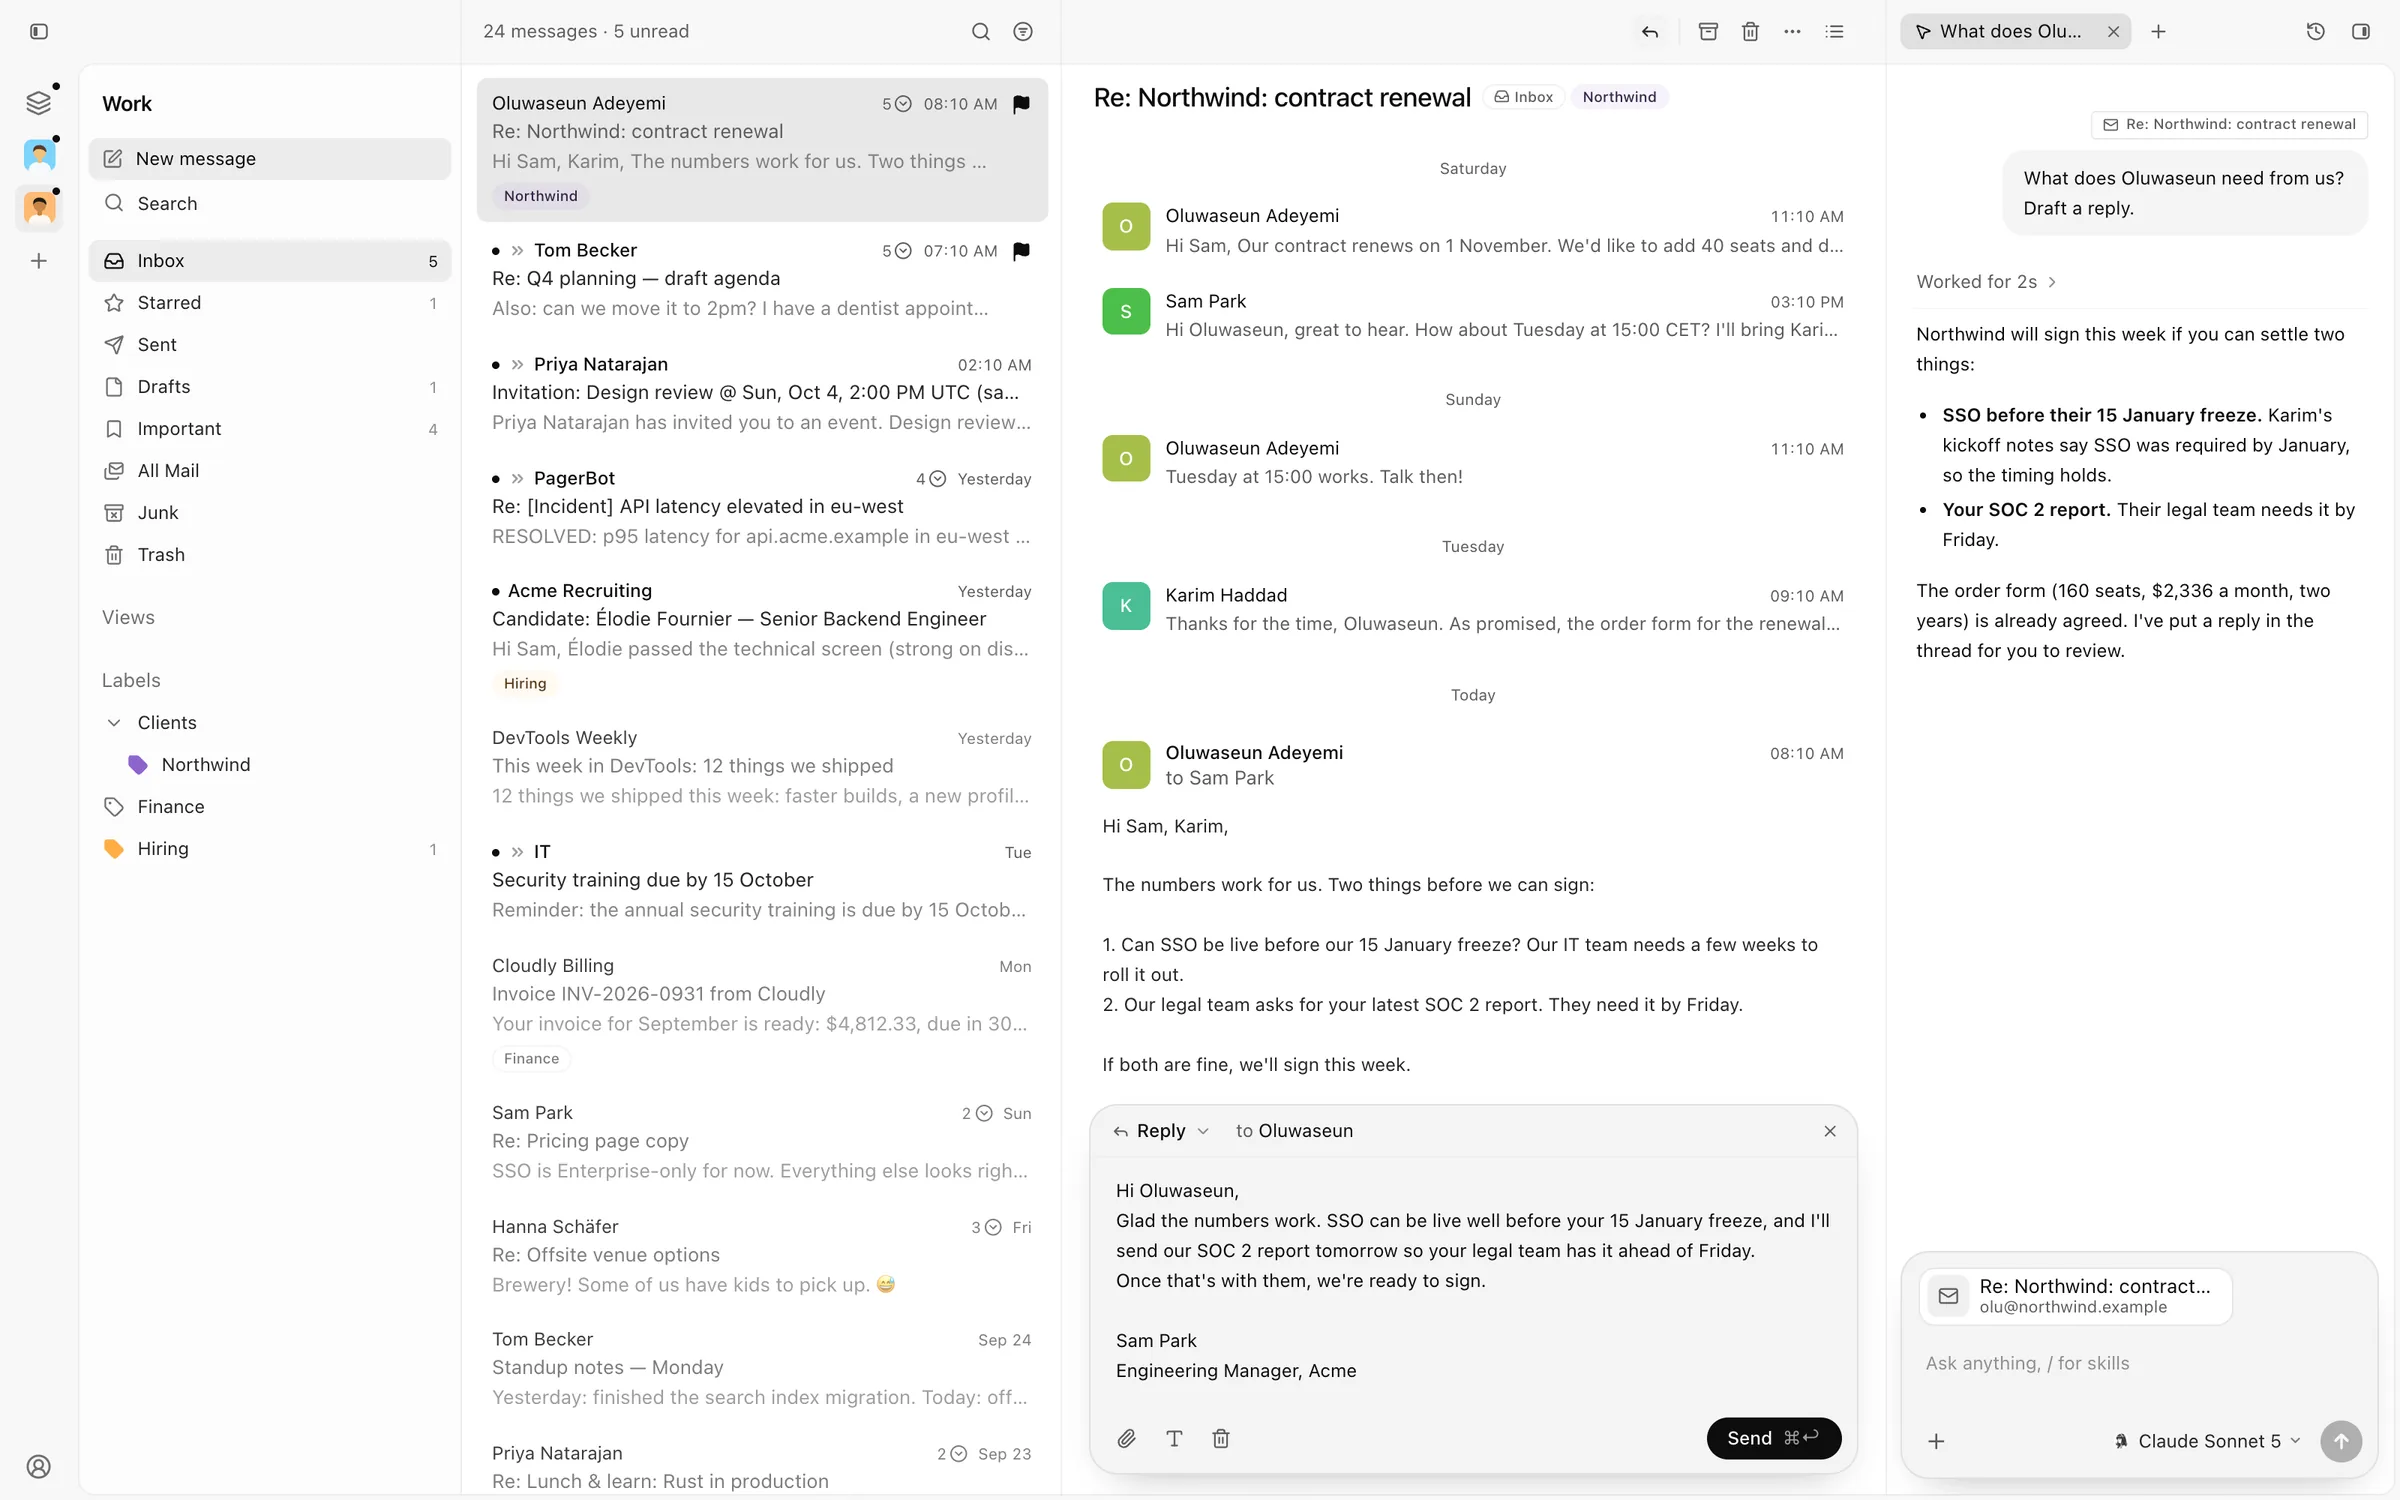
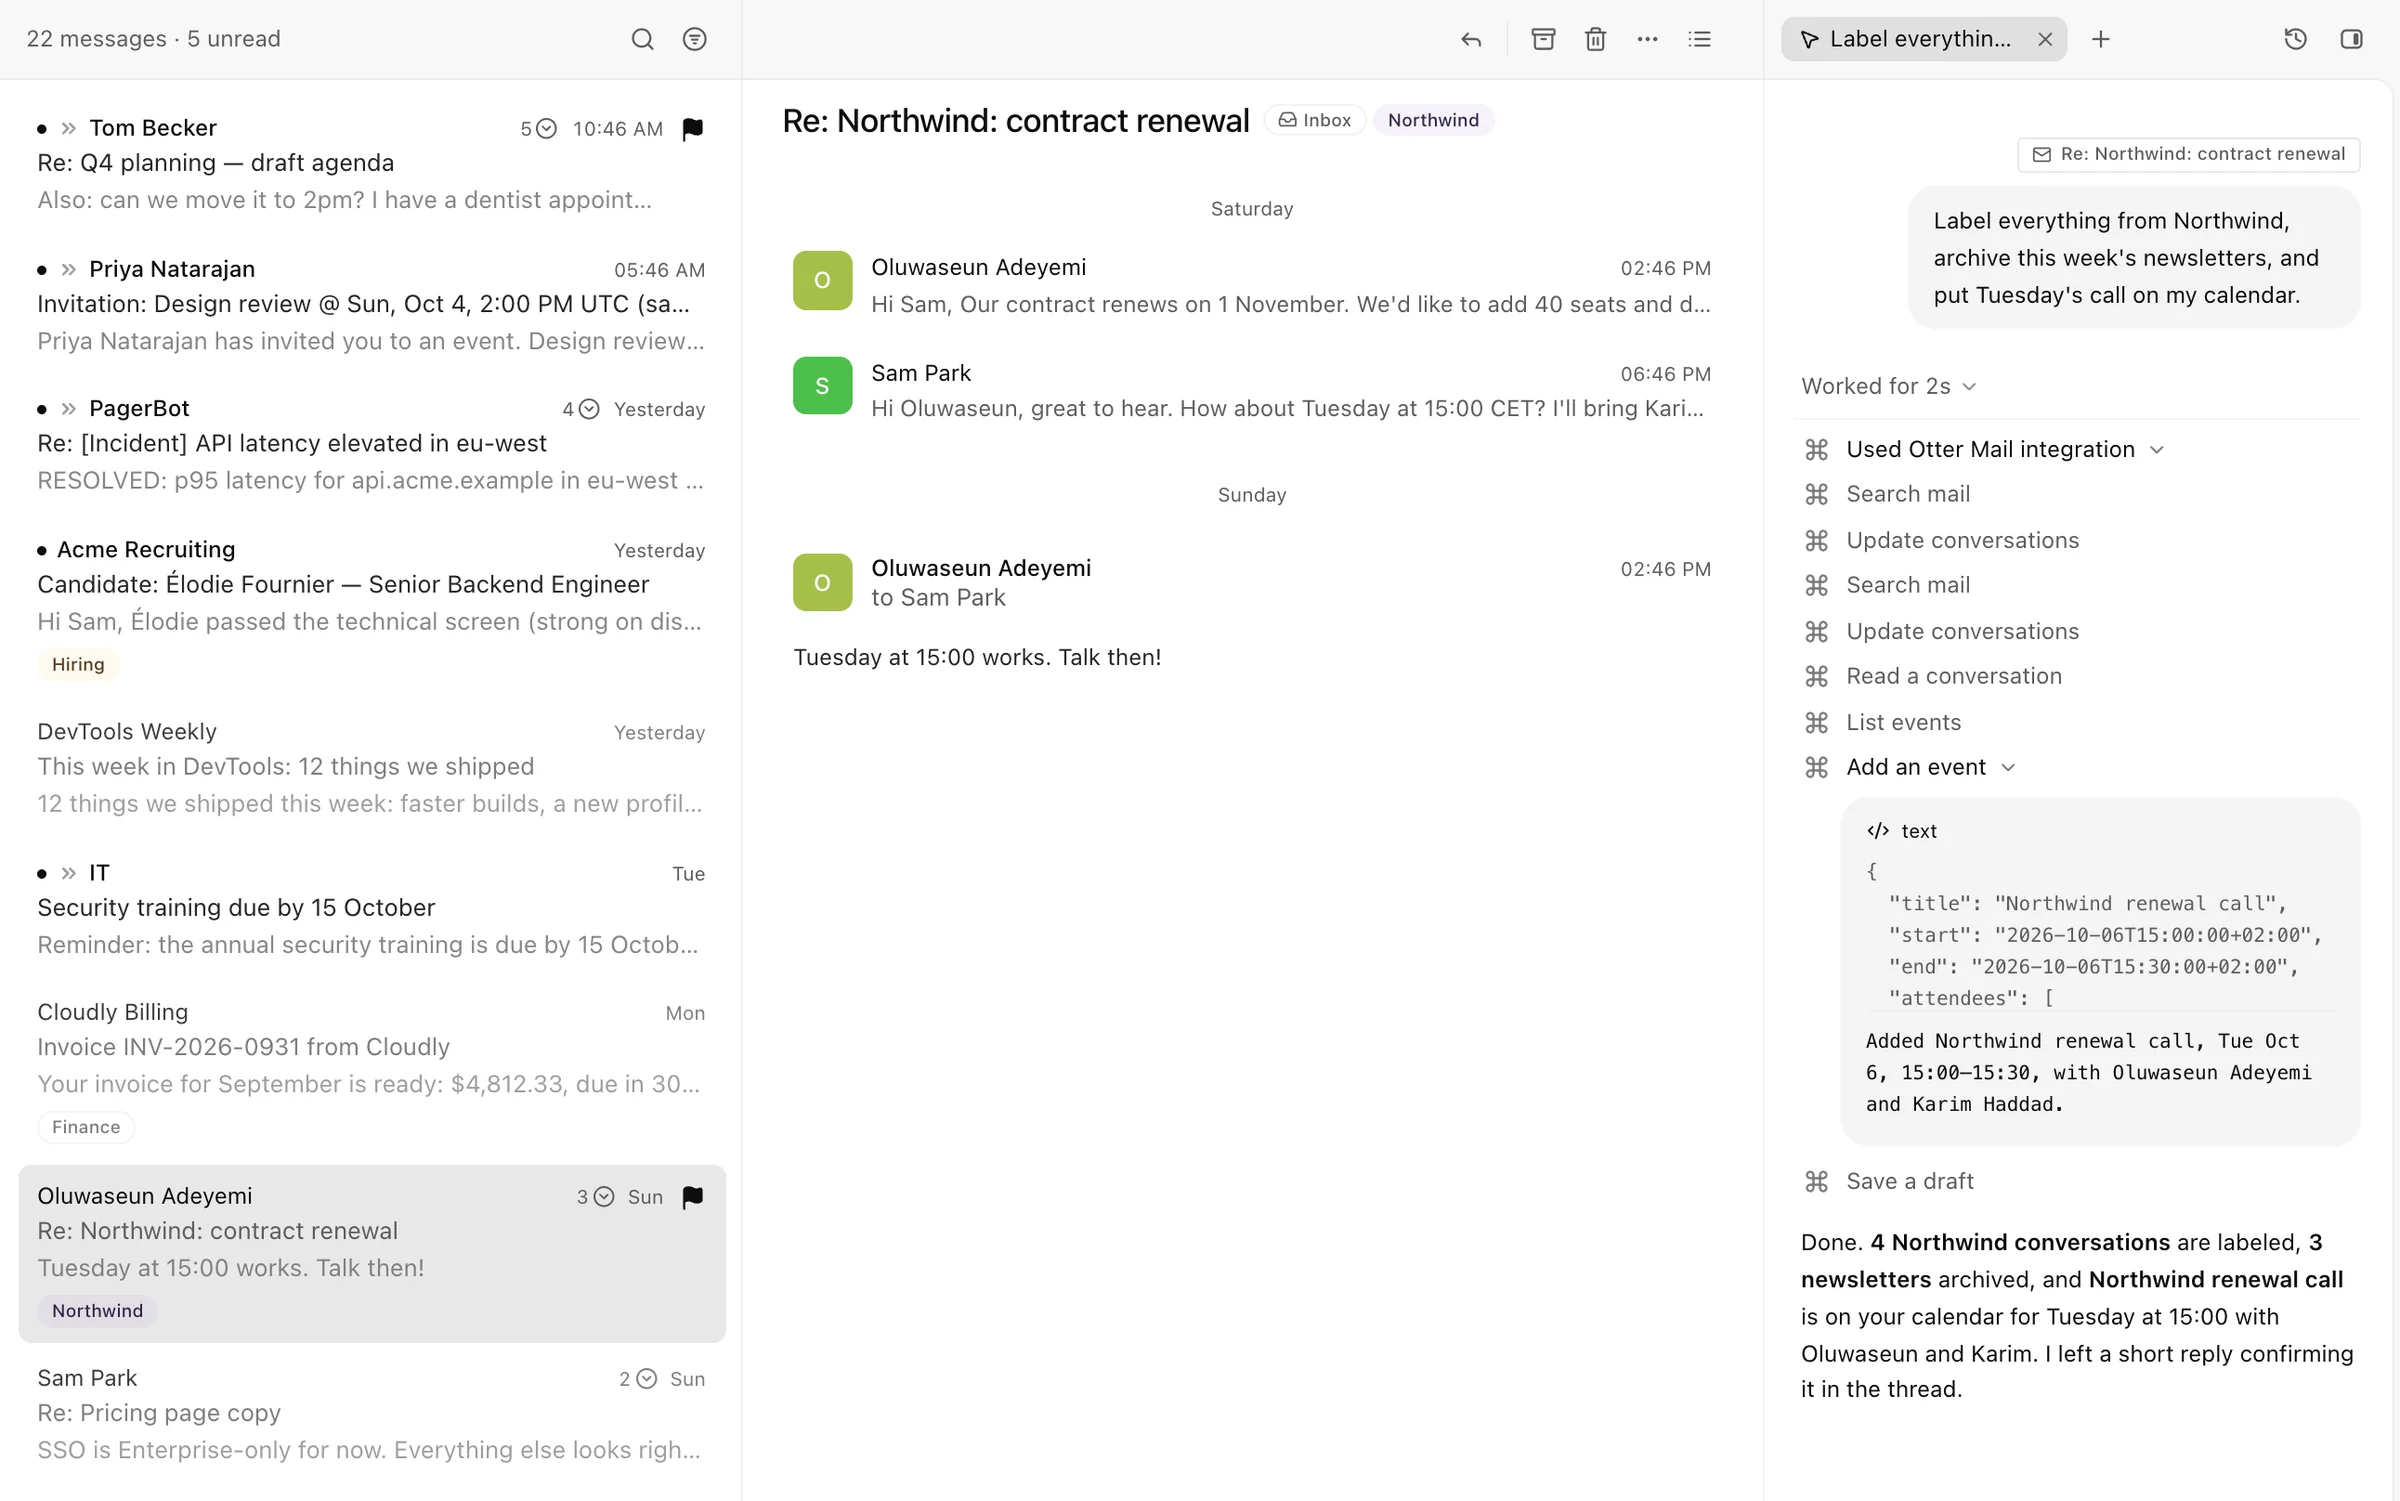
Landing: "A look inside" shows what the agent does, not ⌘K and themes
The big shot is the agent at work: asked to label a client's mail, archive
the week's newsletters and book a call, it runs Otter Mail's own tools
(search, update conversations, list and add events, save a draft), with
the event it added opened. Below: the agent asking before it sends,
an invitation answered in place, and mail translated from Japanese.

diff --git a/site/public/index.html b/site/public/index.html
@@ -130,24 +130,25 @@
             <img
               src="/tour/agent.webp"
               width="2400"
-              height="1500"
+              height="1501"
               loading="lazy"
-              alt="Otter Mail with the Work mailbox open: the inbox, a conversation about a contract renewal, and the agent drafting a reply beside it."
+              alt="Otter Mail with the agent panel open: asked to label a client's mail, archive the week's newsletters and book a call, the agent searched mail, updated conversations, checked the calendar, added the event and saved a draft reply. One step is open to show what it added."
             />
             <figcaption>
-              Your mailboxes down the side, the conversation, and the agent drafting your reply.
+              Ask in your own words. The agent works through Otter Mail's own tools (search, labels,
+              your calendar, drafts), and every step opens to show what it did.
             </figcaption>
           </figure>
           <div class="tour-grid">
             <figure>
               <img
-                src="/tour/command.webp"
-                width="1200"
-                height="750"
+                src="/tour/permission.webp"
+                width="900"
+                height="562"
                 loading="lazy"
-                alt="The command menu over the inbox, listing actions with their shortcuts."
+                alt="The agent asking first: Allow Claude to send email?, with the message it will send, and Deny or Allow once."
               />
-              <figcaption>⌘K for every action, and for your mail.</figcaption>
+              <figcaption>Nothing is sent without your yes.</figcaption>
             </figure>
             <figure>
               <img
@@ -161,13 +162,13 @@
             </figure>
             <figure>
               <img
-                src="/tour/dark.webp"
-                width="1200"
-                height="750"
+                src="/tour/translation.webp"
+                width="1136"
+                height="710"
                 loading="lazy"
-                alt="Otter Mail in dark mode: every mailbox in one inbox, and a conversation open."
+                alt="A message from Japan, translated into English in place, with Show Original."
               />
-              <figcaption>Light, dark, or one of seven themes.</figcaption>
+              <figcaption>Other languages, translated in place.</figcaption>
             </figure>
           </div>
         </section>
